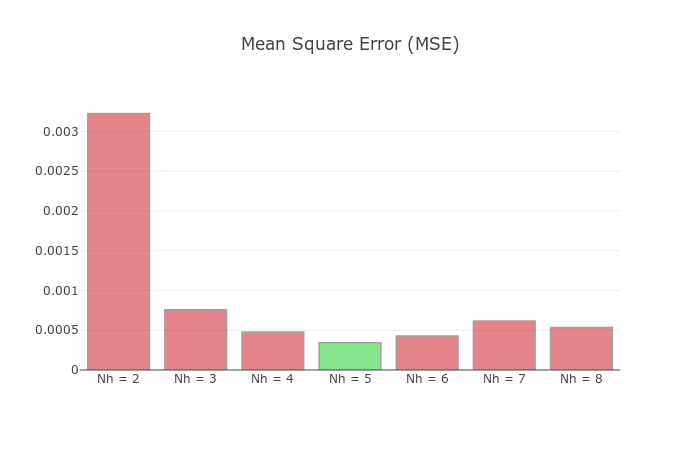
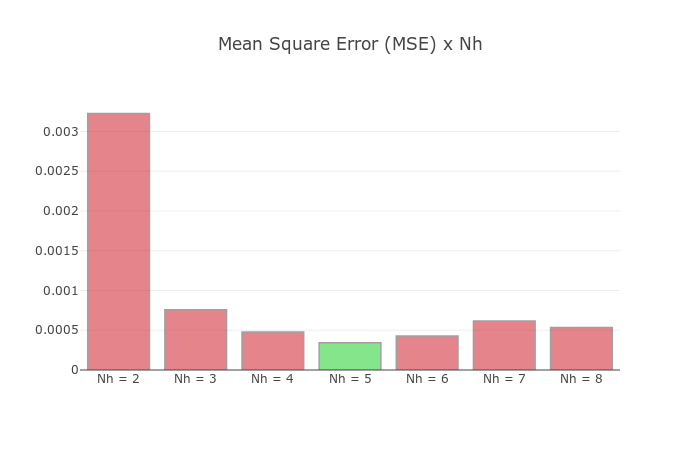
Variação da Taxa de Aprendizagem

Changed region(s): [[0.3, 0.0622, 0.69, 0.1244]]

diff --git a/plot-results.py b/plot-results.py
@@ -21,10 +21,32 @@ def MSE_Nh():
 
     data = [trace0]
     layout = go.Layout(
-        title='Mean Square Error (MSE)',
+        title='Mean Square Error (MSE) x Nh',
     )
 
     fig = go.Figure(data=data, layout=layout)
     plot(fig, filename='color-bar')
 
-MSE_Nh()
+def MSE_eta():
+    trace0 = go.Bar(
+        x=['0.005', '0.0075', '0.01', '0.0125', '0.01375', '0.014', '0.015', '0.01675', '0.0175'],
+        y=[0.000651237838196, 0.000509132366308, 0.000342801720977, 0.000318285911086, 0.000285617184203, 0.000214122650244, 0.000226176626778, 0.000210204977508, 0.00291532537024],
+        marker=dict(
+            color=['rgb(205, 12, 24)', 'rgb(205, 12, 24)', 'rgb(205, 12, 24)', 'rgb(205, 12, 24)', 'rgb(205, 12, 24)', 'rgb(12, 205, 24)', 'rgb(205, 12, 24)', 'rgb(205, 12, 24)', 'rgb(205, 12, 24)'],
+            line=dict(
+                width=1.5),
+        ),
+        opacity=0.5,
+        #width = [0.8, 0.8, 0.8, 0.8, 0.8, 0.8, 0.8, 0.8, 0.8, 0.8]
+    )
+
+    data = [trace0]
+    layout = go.Layout(
+        title='Mean Square Error (MSE) x Taxa de Aprendizagem',
+    )
+
+    fig = go.Figure(data=data, layout=layout)
+    plot(fig, filename='color-bar')
+
+#MSE_Nh()
+MSE_eta()

diff --git a/backpropagation.py b/backpropagation.py
@@ -3,7 +3,7 @@ import numpy as np  # Array do Python
 from math  import sqrt, pi
 
 class Backpropagation(object):
-    def __init__(self, eta=0.01, epoch_max=20000, Ni=2, Nh=8, Ns=1):
+    def __init__(self, eta=0.014, epoch_max=20000, Ni=2, Nh=5, Ns=1):
         self.eta = eta
         self.epoch_max = epoch_max
         self.Ni = Ni

diff --git a/README.md b/README.md
@@ -24,6 +24,30 @@ Na Figura abaixo temos o MSE em função do `Nh` (variando entre 2 e 8). Pelo gr
 
 ![MSE em função de Nh](imagens/MSExNH.png)
 
-## Variação da Taxa de Aprendizagem
+## Variação da Taxa de Aprendizagem ($\eta$)
+
+$\eta$ | MSE Final
+:---:  | :------:
+0.005  | 0.000651237838196
+0.0075 | 0.000509132366308
+0.01   | 0.000342801720977
+0.0125 | 0.000318285911086
+0.01375| 0.000285617184203
+0.014  | 0.000214122650244
+0.015  | 0.000226176626778*
+0.01675| 0.000210204977508**
+0.0175 | 0.00291532537024***
+0.02   | 0.00860499719853***
+0.03   | 0.578760552709***
+
+> \* Pouca instabilidade (apenas no final do treinamento).
+
+> ** Pouca instabilidade (apenas no início do treinamento).
+
+> *** Muita instabilidade no erro, apresentando alguns picos ao longo do treinamento.
+
+O valor ótimo para a taxa de aprendizagem, nesta análise, foi `0.01675`, no entanto, nesse caso houve certa instabilidade no MSE, o que não é desejável no sistema. Sendo assim, o valor mais adequado a ser utilizado é `0.014`, uma vez que apresentou o menor MSE com estabilidade. Nota-se que valores muito pequenos da taxa de aprendizagem afetam negativamente no aprendizado, entretanto, valores elevados de $\eta$ afetam ainda mais no desempenho. A Figura abaixo ilustra os dados apresentados na tabela.
+
+![MSE em função de Nh](imagens/MSExTA.png)
 
 
